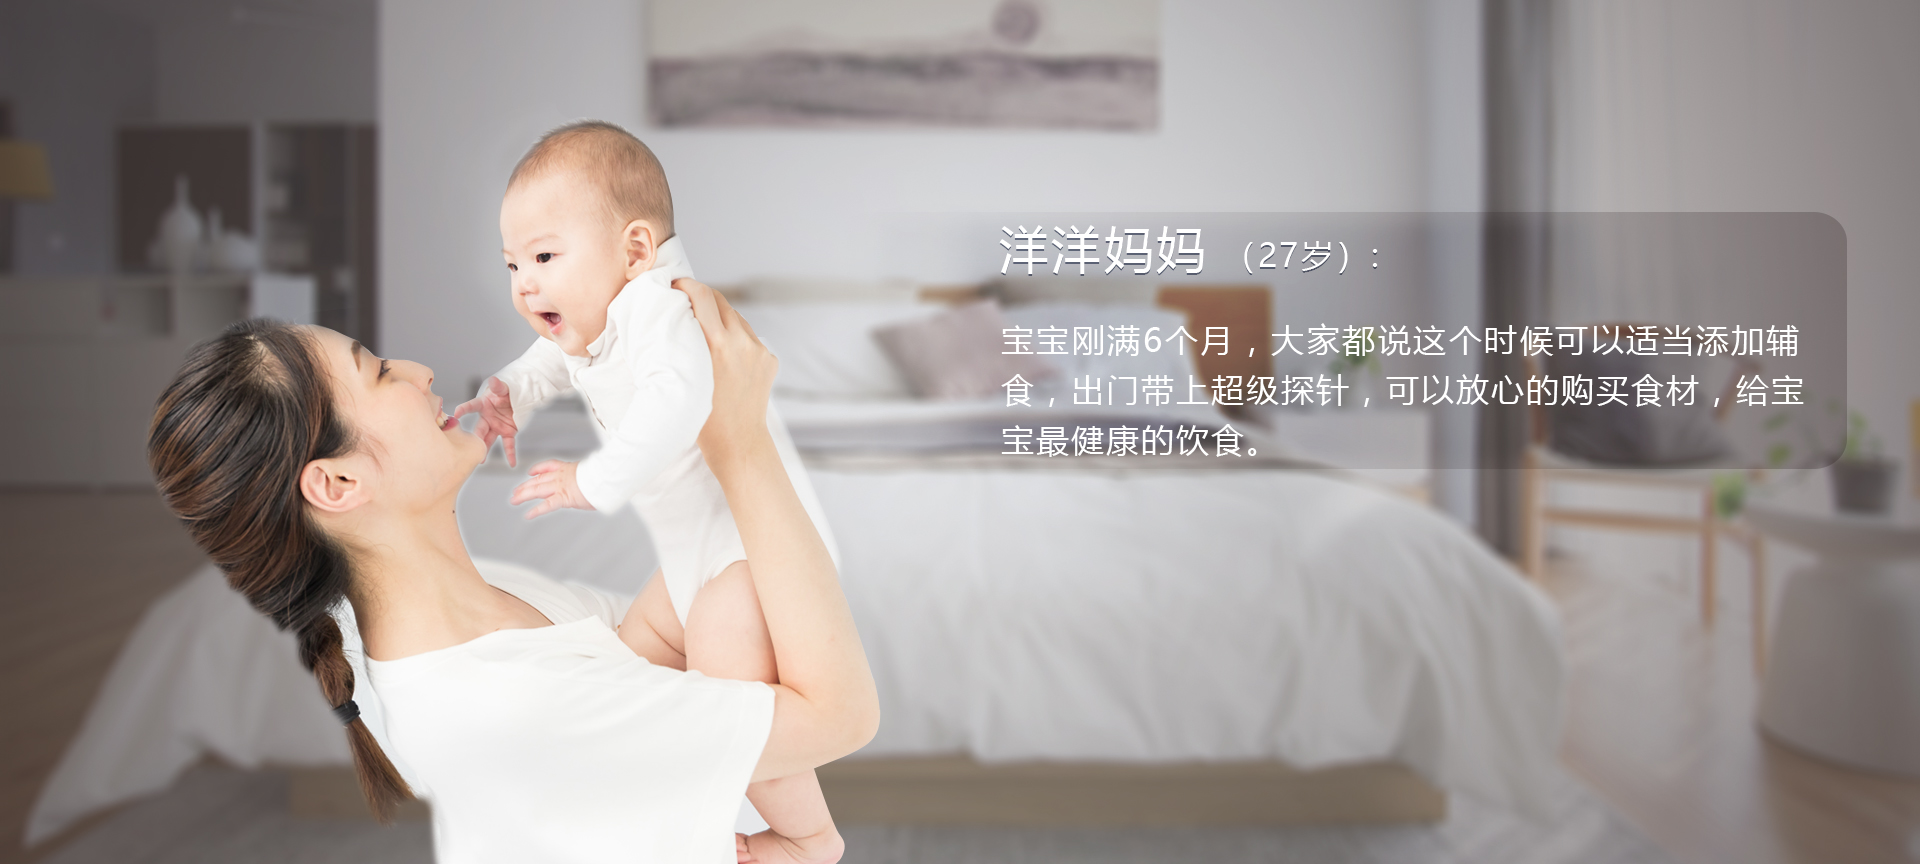
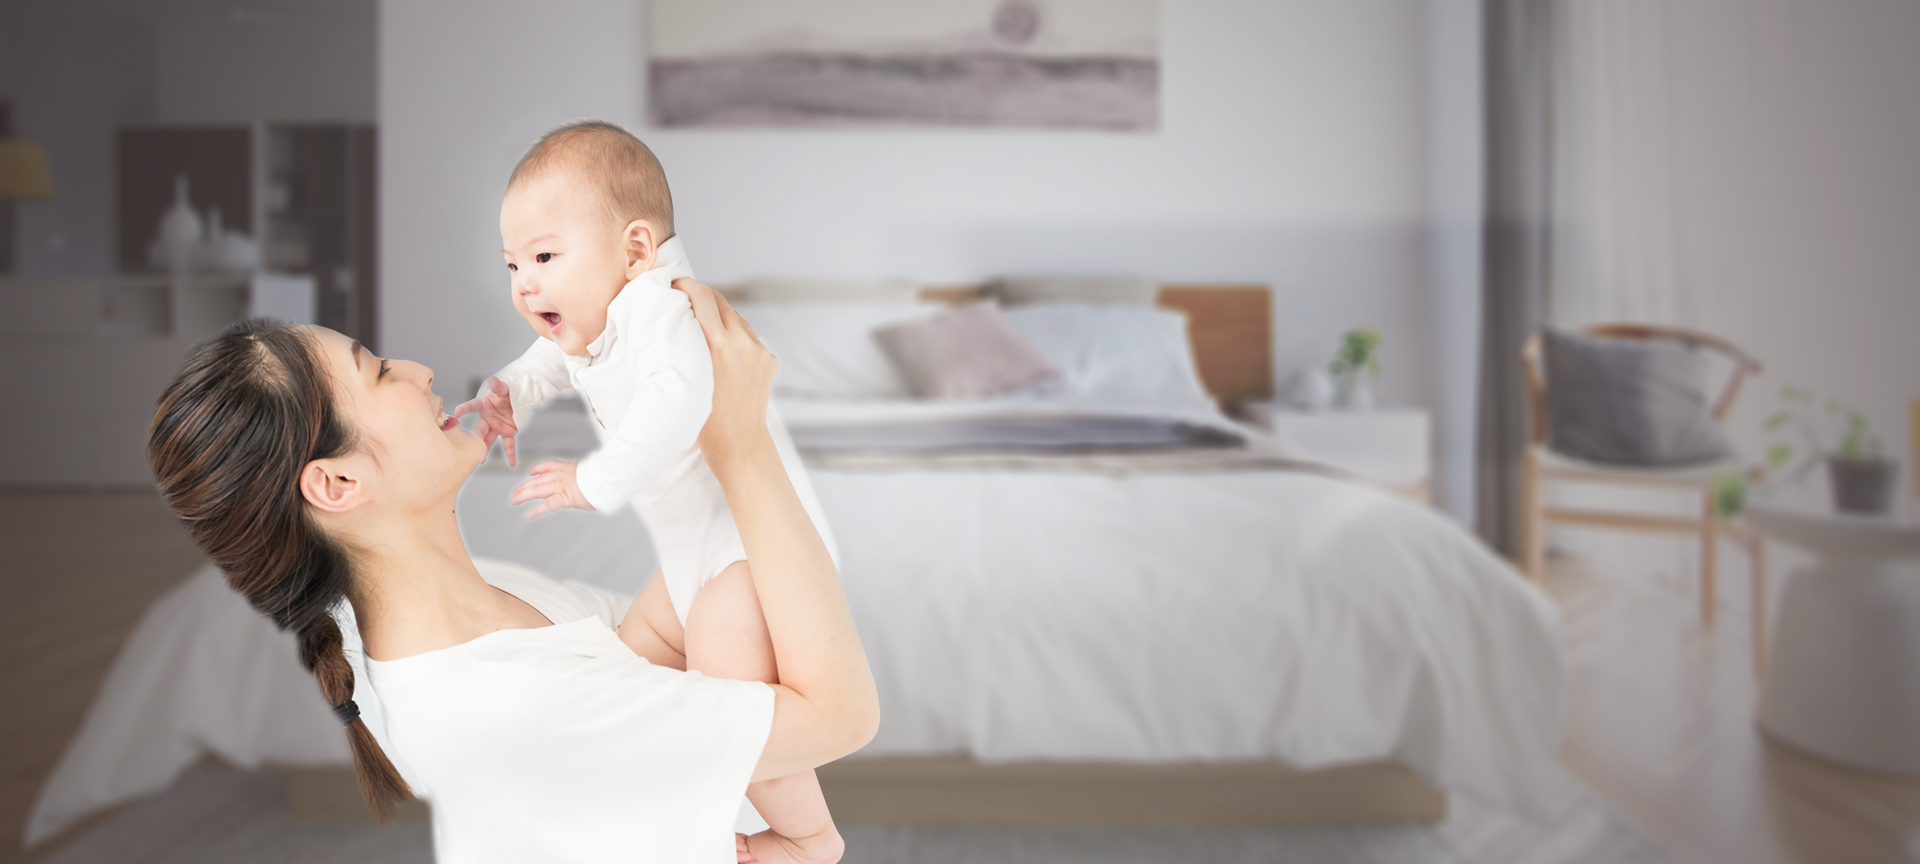
suitable for pic

Changed region(s): [[0.5, 0.2188, 0.9688, 0.5625], [0.5, 0.25, 0.625, 0.3125], [0.6562, 0.2812, 0.7188, 0.3125]]

diff --git a/index.html b/index.html
@@ -126,18 +126,73 @@
 			<div class="row">
 				<div class="col-md-6"></div>
 				<div class="col-md-6">
-					<section>
-						<h1></h1>
-						<p></p>
+					<section class=" float-word wow fadeInRight" >
+						<h1>洋洋妈妈 </h1>
+						<h3>（27岁）</h3>
+						<p>我家宝宝现在9个月啦，正是长身体的时候，决定尝试添加牛肉松作为辅食，自从有了超级探针，可以更放心的购买食材，给宝宝最健康的饮食。</p>
 					</section>
 				</div>
 			</div>
 		</div>
 	</div>
-	<div id="home-bg2"></div>
-	<div id="home-bg3"></div>
-	<div id="home-bg4"></div>
-	<div id="home-bg5"></div>
+	<div id="home-bg2">
+		<div class="container">
+			<div class="row">
+				<div class="col-md-6"></div>
+				<div class="col-md-6">
+					<section class=" float-word wow fadeInRight" >
+						<h1>李哥&nbsp;</h1>
+						<h2>火锅店老板</h2>
+						<h3>（32岁）</h3>
+						<p>我们的餐厅不仅有网红店的人气，也有百年老店的口味，每天用餐的客流量非常大，以前供货的检测手续复杂，用了超级探针方便多了，能节省不少成本。</p>
+					</section>
+				</div>
+			</div>
+		</div>
+	</div>
+	<div id="home-bg3">
+		<div class="container">
+			<div class="row">
+				<div class="col-md-6"></div>
+				<div class="col-md-6">
+					<section class=" float-word wow fadeInRight" >
+						<h1>林博士</h1>
+						<h3>（70岁）</h3>
+						<p>从美国到中国，我从事牛肉行业已经40余年，很高兴看到越来越多的人了解牛肉的营养，同时，我和团队还想让大家吃的健康，用最简单的方法了解食品的品质。</p>
+					</section>
+				</div>
+			</div>
+		</div>
+	</div>
+	<div id="home-bg4">
+		<div class="container">
+			<div class="row">
+				<div class="col-md-6"></div>
+				<div class="col-md-6">
+					<section class=" float-word wow fadeInRight" >
+						<h1>张经理&nbsp;</h1>
+						<h2>牛肉企业负责人</h2>
+						<h3>（38岁）</h3>
+						<p>食品企业最重视的是品牌声誉，从养殖到餐桌，我们会层层检验、道道把关，希望从这里运出的每一块牛肉都能让消费者放心。</p>
+					</section>
+				</div>
+			</div>
+		</div>
+	</div>
+	<div id="home-bg5">
+		<div class="container">
+			<div class="row">
+				<div class="col-md-6"></div>
+				<div class="col-md-6">
+					<section class=" float-word wow fadeInRight" >
+						<h1>张阿姨 </h1>
+						<h3>（57岁）</h3>
+						<p>孩子每天早出晚归，上班特别忙根本没时间好好吃饭，为了让他们补足必须的营养，每天我会送餐到公司楼下，用心挑选的食材，才能吃的放心。</p>
+					</section>
+				</div>
+			</div>
+		</div>
+	</div>
 	<!-- 轮播 -->
 	<div class="super-power">
 		<div class="container">

diff --git a/css/home.css b/css/home.css
@@ -43,3 +43,54 @@
   display: inline-block;
   margin-left: -6%;
 }
+
+ section.float-word{
+  background: linear-gradient(to right,transparent,rgba(0, 0, 0, .1)) ;
+  width: 100%;
+  border-radius: 20px;
+  color: white;
+  padding: 20px;
+  margin-top: 30vh;
+}
+section.float-word h1,section.float-word h2, section.float-word h3{
+  display: inline-block;
+  line-height: 2.4em;
+}
+section.float-word p{
+  font-size: 1.6em;
+  text-align: justify;
+}
+
+@media screen and (max-width: 768px) {
+  #home-bg1{
+    background: url(../img/homepage/eg1-small.jpg) no-repeat center/auto 100%;
+  }
+  #home-bg2{
+    background: url(../img/homepage/eg2-small.jpg) no-repeat center/100% 100%;
+  }
+  #home-bg3{
+    background: url(../img/homepage/eg3-small.jpg) no-repeat center/100% 100%;
+  }
+  #home-bg4{
+    background: url(../img/homepage/eg4-small.jpg) no-repeat center/100% 100%;
+  }
+  #home-bg5{
+    background: url(../img/homepage/eg5-small.jpg) no-repeat center/100% 100%;
+  }
+  section.float-word h1,section.float-word h2, section.float-word h3{
+    line-height: 1;
+  }
+  .slide1-content{
+    padding: 0;
+    line-height: 1;
+  }
+  .slide1-content h1,.slide1-content h2,.slide1-content h3{
+    margin:0;
+  }
+  .slide1-content h3,.slide1-content h1{
+    margin-left: -1.1em;
+  }
+  .slide1-content div{
+    margin-right: 5%;
+  }
+}
